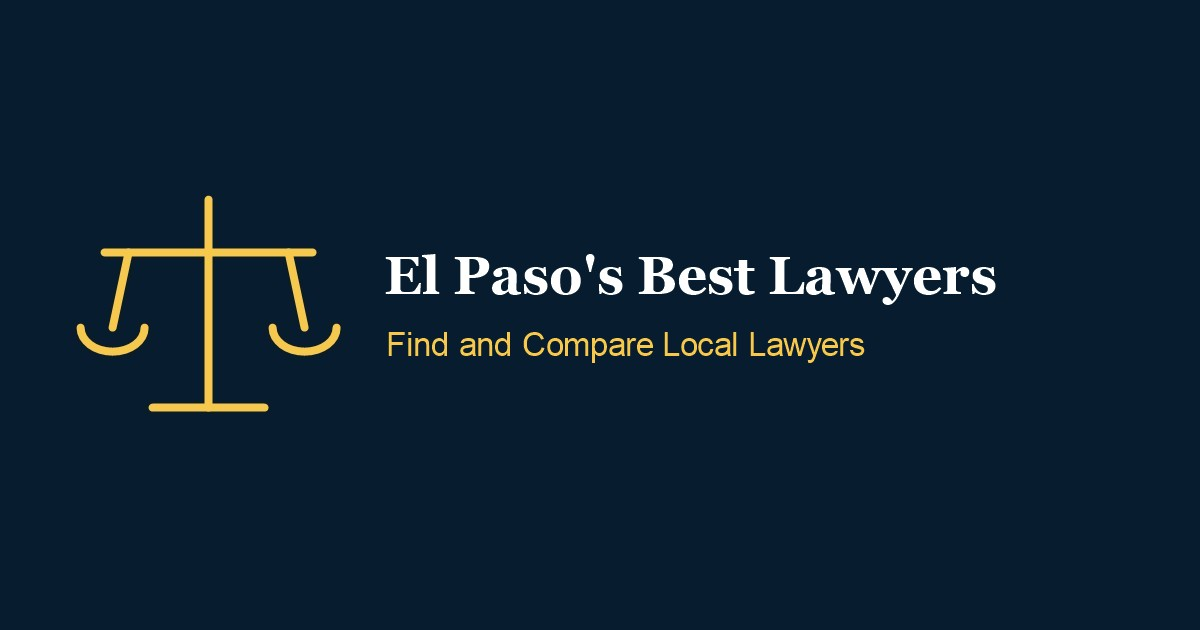
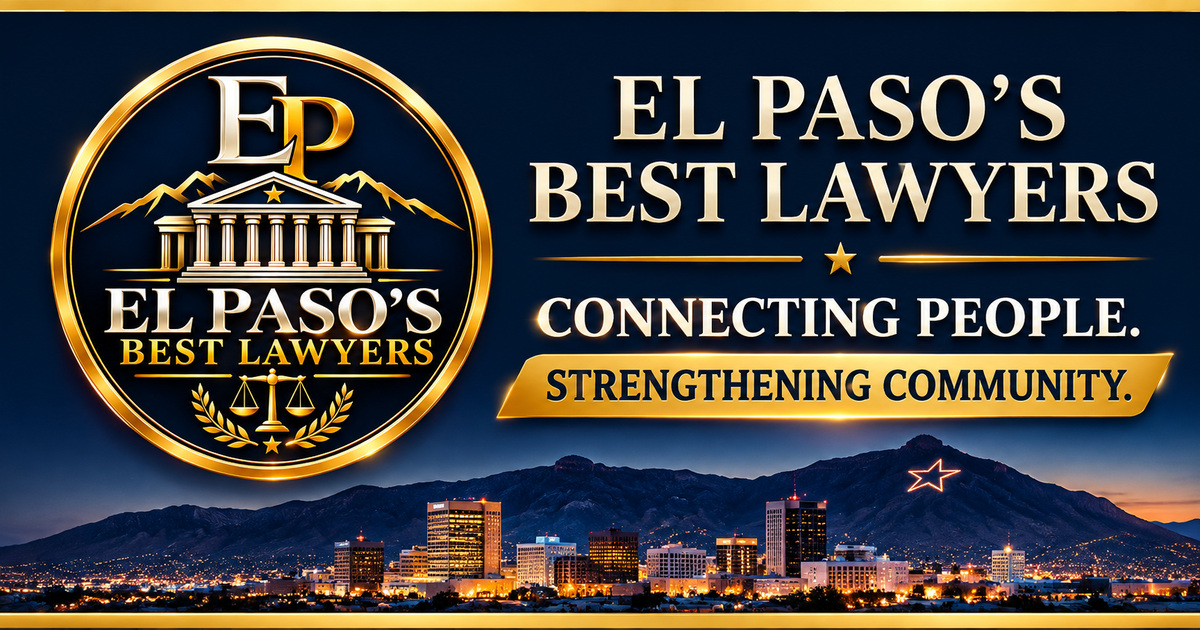
Apply approved EPBL branding and community slogan

diff --git a/index.html b/index.html
@@ -97,9 +97,13 @@
       {
         "@context": "https://schema.org",
         "@type": "WebSite",
+        "@id": "https://www.elpasosbestlawyers.com/#website",
         "name": "El Paso's Best Lawyers",
         "url": "https://www.elpasosbestlawyers.com/",
-        "description": "Compare lawyers and law firms in El Paso, Texas by practice area and browse local attorney profiles."
+        "description": "Compare lawyers and law firms in El Paso, Texas by practice area and browse local attorney profiles.",
+        "publisher": {
+          "@id": "https://www.elpasosbestlawyers.com/#organization"
+        }
       }
     </script>
 
@@ -107,10 +111,15 @@
       {
         "@context": "https://schema.org",
         "@type": "Organization",
+        "@id": "https://www.elpasosbestlawyers.com/#organization",
         "name": "El Paso's Best Lawyers",
         "url": "https://www.elpasosbestlawyers.com/",
         "logo": "https://www.elpasosbestlawyers.com/logo.png",
-        "description": "A legal directory helping residents find trusted attorneys in El Paso while providing law firms with professional online visibility."
+        "slogan": "Connecting People. Strengthening Community.",
+        "description": "An El Paso community-focused legal directory connecting residents with attorney profiles, legal information, and local resources.",
+        "sameAs": [
+          "https://www.linkedin.com/company/elpasosbestlawyers/"
+        ]
       }
     </script>
   </head>

diff --git a/src/components/Hero.tsx b/src/components/Hero.tsx
@@ -65,12 +65,10 @@ export default function Hero({ onSearch }: HeroProps) {
             onClick={() => window.scrollTo({ top: 0, behavior: "smooth" })}
             className="flex min-w-0 items-center gap-3 text-left"
           >
-            <span className="flex h-12 w-12 shrink-0 items-center justify-center rounded-xl bg-gradient-to-br from-[#F7C84A] to-[#DDA321] text-[#071D2F] shadow-lg sm:h-14 sm:w-14">
-              <Scale className="h-7 w-7 sm:h-8 sm:w-8" strokeWidth={2.2} />
-            </span>
+            <img src="/logo.png" alt="El Paso's Best Lawyers emblem" width={56} height={56} className="h-12 w-12 shrink-0 rounded-full object-contain sm:h-14 sm:w-14" />
             <span className="min-w-0">
               <span className="block font-serif text-lg font-black leading-tight sm:text-[26px]">El Paso&apos;s Best Lawyers</span>
-              <span className="block text-xs text-white/85 sm:text-sm">Find and Compare Local Lawyers</span>
+              <span className="block text-xs text-white/85 sm:text-sm">Connecting People. Strengthening Community.</span>
             </span>
           </button>
 
